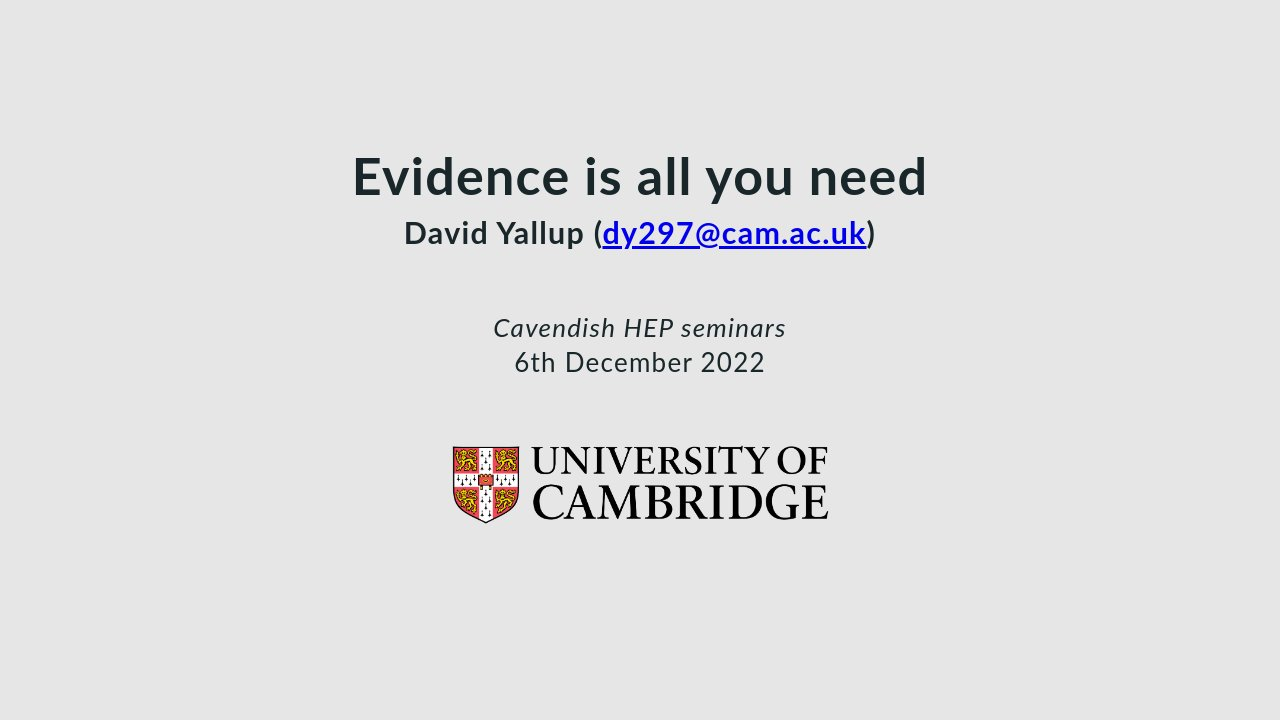
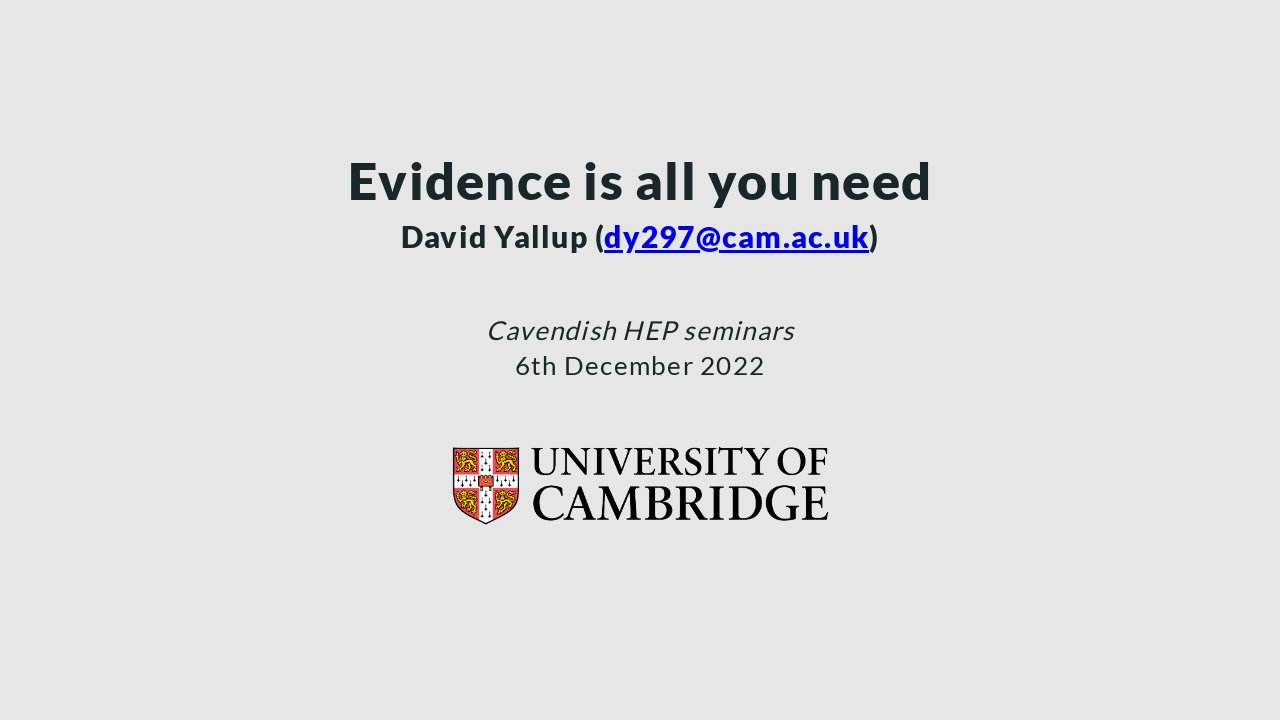
Deploying to gh-pages from  @ 36d31e0955519802fc04139dcce713a6c3859390 🚀

diff --git a/index.html b/index.html
@@ -1,4 +1,4 @@
[2 lines of base64/hex data omitted]
 /*!
  * Marp / Marpit IGGG theme.
  *
@@ -7,9 +7,10 @@
  * @size 4:3 960px 720px
  * @size 16:9 1280px 720px
  */
-/* @import url("https://gist.github.com/LunarTwilight/8c851dc46a1f6875bca8d42a276c8621/raw/dark-cloudflare-dash.user.css"); */div#p>svg>foreignObject>section{display:flex;flex-direction:column;justify-content:center;background-color:hsl(190,26%,13%);color:hsl(0,26%,90%);font-size:30px;line-height:1.35;letter-spacing:1.25px;padding:70px;padding-top:100px;font-family:'Lato','Avenir Next','Avenir','Trebuchet MS','Segoe UI',sans-serif}div#p>svg>foreignObject>section{--marpit-root-font-size:30px}div#p>svg>foreignObject>section>:first-child{margin-top:-0.5em;color:hsl(0,0,100%);position:absolute;top:10%;border-bottom:2px solid hsl(29,84%,51%)}div#p>svg>foreignObject>section strong{color:hsl(29,84%,51%)}div#p>svg>foreignObject>section :is(pre,marp-pre){display:block;margin:1em 0 0 0;min-height:1em;overflow:visible}div#p>svg>foreignObject>section :is(pre,marp-pre) code{box-sizing:border-box;margin:0;min-width:100%;padding:0.5em;font-size:0.7em;background-color:hsl(0,0%,90%)}div#p>svg>foreignObject>section code{display:inline-block;font-family:'NasuM','Roboto Mono',monospace;font-size:0.8em;letter-spacing:0;margin:-0.1em 0.15em;padding:0.1em 0.2em;vertical-align:baseline;background-color:hsl(0,0%,90%);color:hsl(190,26%,13%)}div#p>svg>foreignObject>section.red strong{color:#cb2431}div#p>svg>foreignObject>section.lead{display:flex;flex-direction:column;flex-wrap:nowrap;justify-content:center;text-align:center; 
+/* @import url("https://gist.github.com/LunarTwilight/8c851dc46a1f6875bca8d42a276c8621/raw/dark-cloudflare-dash.user.css"); */div#p>svg>foreignObject>section{display:flex;flex-direction:column;justify-content:center;background-color:hsl(190,26%,13%);color:hsl(0,0%,90%);font-size:30px;line-height:1.35;letter-spacing:1.25px;padding:70px;padding-top:100px;font-family:'Lato',-apple-system,BlinkMacSystemFont,'Segoe UI',sans-serif}div#p>svg>foreignObject>section{--marpit-root-font-size:30px}
+  /* 'Lato', 'Avenir Next', 'Avenir', 'Trebuchet MS', 'Segoe UI', sans-serif; } */div#p>svg>foreignObject>section>:first-child{margin-top:-0.5em;color:hsl(0,0,100%);position:absolute;top:10%;border-bottom:2px solid hsl(29,84%,51%)}div#p>svg>foreignObject>section strong{color:hsl(29,84%,51%)}div#p>svg>foreignObject>section :is(pre,marp-pre){display:block;margin:1em 0 0 0;min-height:1em;overflow:visible}div#p>svg>foreignObject>section :is(pre,marp-pre) code{box-sizing:border-box;margin:0;min-width:100%;padding:0.5em;font-size:0.7em;background-color:hsl(0,0%,90%)}div#p>svg>foreignObject>section code{display:inline-block;font-family:'NasuM','Roboto Mono',monospace;font-size:0.8em;letter-spacing:0;margin:-0.1em 0.15em;padding:0.1em 0.2em;vertical-align:baseline;background-color:hsl(0,0%,90%);color:hsl(190,26%,13%)}div#p>svg>foreignObject>section.red strong{color:#cb2431}div#p>svg>foreignObject>section.lead{display:flex;flex-direction:column;flex-wrap:nowrap;justify-content:center;text-align:center; 
   /* padding: 100px; */padding-top:100px;
-  /* color: hsl(190, 26%, 13%); */color:hsl(0,26%,90%);
+  /* color: hsl(190, 26%, 13%); */color:hsl(0,0%,90%);
   /* background-color: hsl(0, 0%, 90%);} */background-color:hsl(190,26%,13%)}
   /* background-color: hsl(29, 84%, 51%)} */div#p>svg>foreignObject>section.lead>:first-child{margin-top:-0.5em;border-bottom:1px solid hsl(29,84%,51%);margin-top:0}div#p>svg>foreignObject>section.lead.invert{display:flex;flex-direction:column;flex-wrap:nowrap;justify-content:center;text-align:center; 
       /* padding: 100px; */padding-top:0px;color:hsl(190,26%,13%);background-color:hsl(0,0%,90%)}
@@ -18,7 +19,7 @@
       /* background-color: hsl(29, 84%, 51%)} */div#p>svg>foreignObject>section.lead>:first-child{position:relative;border-bottom:0px solid hsl(29,84%,51%);margin-top:0}
 
 /* section.split div.split {
-  columns: 2; } */div#p>svg>foreignObject>section .columns{display:grid;grid-template-columns:repeat(2,minmax(0,1fr));gap:calc(var(--marpit-root-font-size, 1rem) * 1)}div#p>svg>foreignObject>section{font-size:26px}div#p>svg>foreignObject>section{--marpit-root-font-size:26px}div#p>svg>foreignObject>section img[alt~=center]{display:block;margin:0 auto}justify-content:flex-start;div#p>svg>foreignObject>section[data-marpit-scope-ls16D7ML] ul{padding:0;list-style:none}div#p>svg>foreignObject>section[data-marpit-scope-MDQkQD1p] ul{padding:0;list-style:none}div#p>svg>foreignObject>section[data-marpit-advanced-background=background]{columns:initial!important;display:block!important;padding:0!important}div#p>svg>foreignObject>section[data-marpit-advanced-background=background]:after,div#p>svg>foreignObject>section[data-marpit-advanced-background=background]:before,div#p>svg>foreignObject>section[data-marpit-advanced-background=content]:after,div#p>svg>foreignObject>section[data-marpit-advanced-background=content]:before{display:none!important}div#p>svg>foreignObject>section[data-marpit-advanced-background=background]>div[data-marpit-advanced-background-container]{all:initial;display:flex;flex-direction:row;height:100%;overflow:hidden;width:100%}div#p>svg>foreignObject>section[data-marpit-advanced-background=background]>div[data-marpit-advanced-background-container][data-marpit-advanced-background-direction=vertical]{flex-direction:column}div#p>svg>foreignObject>section[data-marpit-advanced-background=background][data-marpit-advanced-background-split]>div[data-marpit-advanced-background-container]{width:var(--marpit-advanced-background-split,50%)}div#p>svg>foreignObject>section[data-marpit-advanced-background=background][data-marpit-advanced-background-split=right]>div[data-marpit-advanced-background-container]{margin-left:calc(100% - var(--marpit-advanced-background-split, 50%))}div#p>svg>foreignObject>section[data-marpit-advanced-background=background]>div[data-marpit-advanced-background-container]>figure{all:initial;background-position:center;background-repeat:no-repeat;background-size:cover;flex:auto;margin:0}div#p>svg>foreignObject>section[data-marpit-advanced-background=content],div#p>svg>foreignObject>section[data-marpit-advanced-background=pseudo]{background:transparent!important}div#p>svg>foreignObject>section[data-marpit-advanced-background=pseudo],div#p>svg[data-marpit-svg]>foreignObject[data-marpit-advanced-background=pseudo]{pointer-events:none!important}div#p>svg>foreignObject>section[data-marpit-advanced-background-split]{width:100%;height:100%}</style></head><body><div class="bespoke-marp-osc"><button data-bespoke-marp-osc="prev" tabindex="-1" title="Previous slide">Previous slide</button><span data-bespoke-marp-osc="page"></span><button data-bespoke-marp-osc="next" tabindex="-1" title="Next slide">Next slide</button><button data-bespoke-marp-osc="fullscreen" tabindex="-1" title="Toggle fullscreen (f)">Toggle fullscreen</button><button data-bespoke-marp-osc="presenter" tabindex="-1" title="Open presenter view (p)">Open presenter view</button></div><div id="p"><svg data-marpit-svg="" viewBox="0 0 1280 720"><foreignObject width="1280" height="720"><section id="1" data-class="invert lead" data-theme="github" data-style=".columns {
+  columns: 2; } */div#p>svg>foreignObject>section .columns{display:grid;grid-template-columns:repeat(2,minmax(0,1fr));gap:calc(var(--marpit-root-font-size, 1rem) * 1)}div#p>svg>foreignObject>section{font-size:26px}div#p>svg>foreignObject>section{--marpit-root-font-size:26px}div#p>svg>foreignObject>section img[alt~=center]{display:block;margin:0 auto}justify-content:flex-start;div#p>svg>foreignObject>section[data-marpit-scope-Qayy75Q9] ul{padding:0;list-style:none}div#p>svg>foreignObject>section[data-marpit-scope-HDU8t8J9] ul{padding:0;list-style:none}div#p>svg>foreignObject>section[data-marpit-advanced-background=background]{columns:initial!important;display:block!important;padding:0!important}div#p>svg>foreignObject>section[data-marpit-advanced-background=background]:after,div#p>svg>foreignObject>section[data-marpit-advanced-background=background]:before,div#p>svg>foreignObject>section[data-marpit-advanced-background=content]:after,div#p>svg>foreignObject>section[data-marpit-advanced-background=content]:before{display:none!important}div#p>svg>foreignObject>section[data-marpit-advanced-background=background]>div[data-marpit-advanced-background-container]{all:initial;display:flex;flex-direction:row;height:100%;overflow:hidden;width:100%}div#p>svg>foreignObject>section[data-marpit-advanced-background=background]>div[data-marpit-advanced-background-container][data-marpit-advanced-background-direction=vertical]{flex-direction:column}div#p>svg>foreignObject>section[data-marpit-advanced-background=background][data-marpit-advanced-background-split]>div[data-marpit-advanced-background-container]{width:var(--marpit-advanced-background-split,50%)}div#p>svg>foreignObject>section[data-marpit-advanced-background=background][data-marpit-advanced-background-split=right]>div[data-marpit-advanced-background-container]{margin-left:calc(100% - var(--marpit-advanced-background-split, 50%))}div#p>svg>foreignObject>section[data-marpit-advanced-background=background]>div[data-marpit-advanced-background-container]>figure{all:initial;background-position:center;background-repeat:no-repeat;background-size:cover;flex:auto;margin:0}div#p>svg>foreignObject>section[data-marpit-advanced-background=content],div#p>svg>foreignObject>section[data-marpit-advanced-background=pseudo]{background:transparent!important}div#p>svg>foreignObject>section[data-marpit-advanced-background=pseudo],div#p>svg[data-marpit-svg]>foreignObject[data-marpit-advanced-background=pseudo]{pointer-events:none!important}div#p>svg>foreignObject>section[data-marpit-advanced-background-split]{width:100%;height:100%}</style></head><body><div class="bespoke-marp-osc"><button data-bespoke-marp-osc="prev" tabindex="-1" title="Previous slide">Previous slide</button><span data-bespoke-marp-osc="page"></span><button data-bespoke-marp-osc="next" tabindex="-1" title="Next slide">Next slide</button><button data-bespoke-marp-osc="fullscreen" tabindex="-1" title="Toggle fullscreen (f)">Toggle fullscreen</button><button data-bespoke-marp-osc="presenter" tabindex="-1" title="Open presenter view (p)">Open presenter view</button></div><div id="p"><svg data-marpit-svg="" viewBox="0 0 1280 720"><foreignObject width="1280" height="720"><section id="1" data-class="invert lead" data-theme="github" data-style=".columns {
   display: grid;
   grid-template-columns: repeat(2, minmax(0, 1fr));
   gap: 1rem;
@@ -231,7 +232,7 @@ An introduction to Nested Sampling</p>
 </div>
 </div>
 </section>
-</foreignObject></svg><svg data-marpit-svg="" viewBox="0 0 1280 720"><foreignObject width="1280" height="720"><section id="8" data-marpit-scope-ls16D7ML="" data-marpit-fragments="3" data-class="math" data-paginate="true" data-theme="github" data-style=".columns {
+</foreignObject></svg><svg data-marpit-svg="" viewBox="0 0 1280 720"><foreignObject width="1280" height="720"><section id="8" data-marpit-scope-Qayy75Q9="" data-marpit-fragments="3" data-class="math" data-paginate="true" data-theme="github" data-style=".columns {
   display: grid;
   grid-template-columns: repeat(2, minmax(0, 1fr));
   gap: 1rem;
@@ -291,7 +292,7 @@ An introduction to Nested Sampling</p>
 </li>
 </ul>
 </section>
-</foreignObject></svg><svg data-marpit-svg="" viewBox="0 0 1280 720"><foreignObject width="1280" height="720"><section id="10" data-marpit-scope-MDQkQD1p="" data-marpit-fragments="2" data-class="math" data-paginate="true" data-theme="github" data-style=".columns {
+</foreignObject></svg><svg data-marpit-svg="" viewBox="0 0 1280 720"><foreignObject width="1280" height="720"><section id="10" data-marpit-scope-HDU8t8J9="" data-marpit-fragments="2" data-class="math" data-paginate="true" data-theme="github" data-style=".columns {
   display: grid;
   grid-template-columns: repeat(2, minmax(0, 1fr));
   gap: 1rem;
